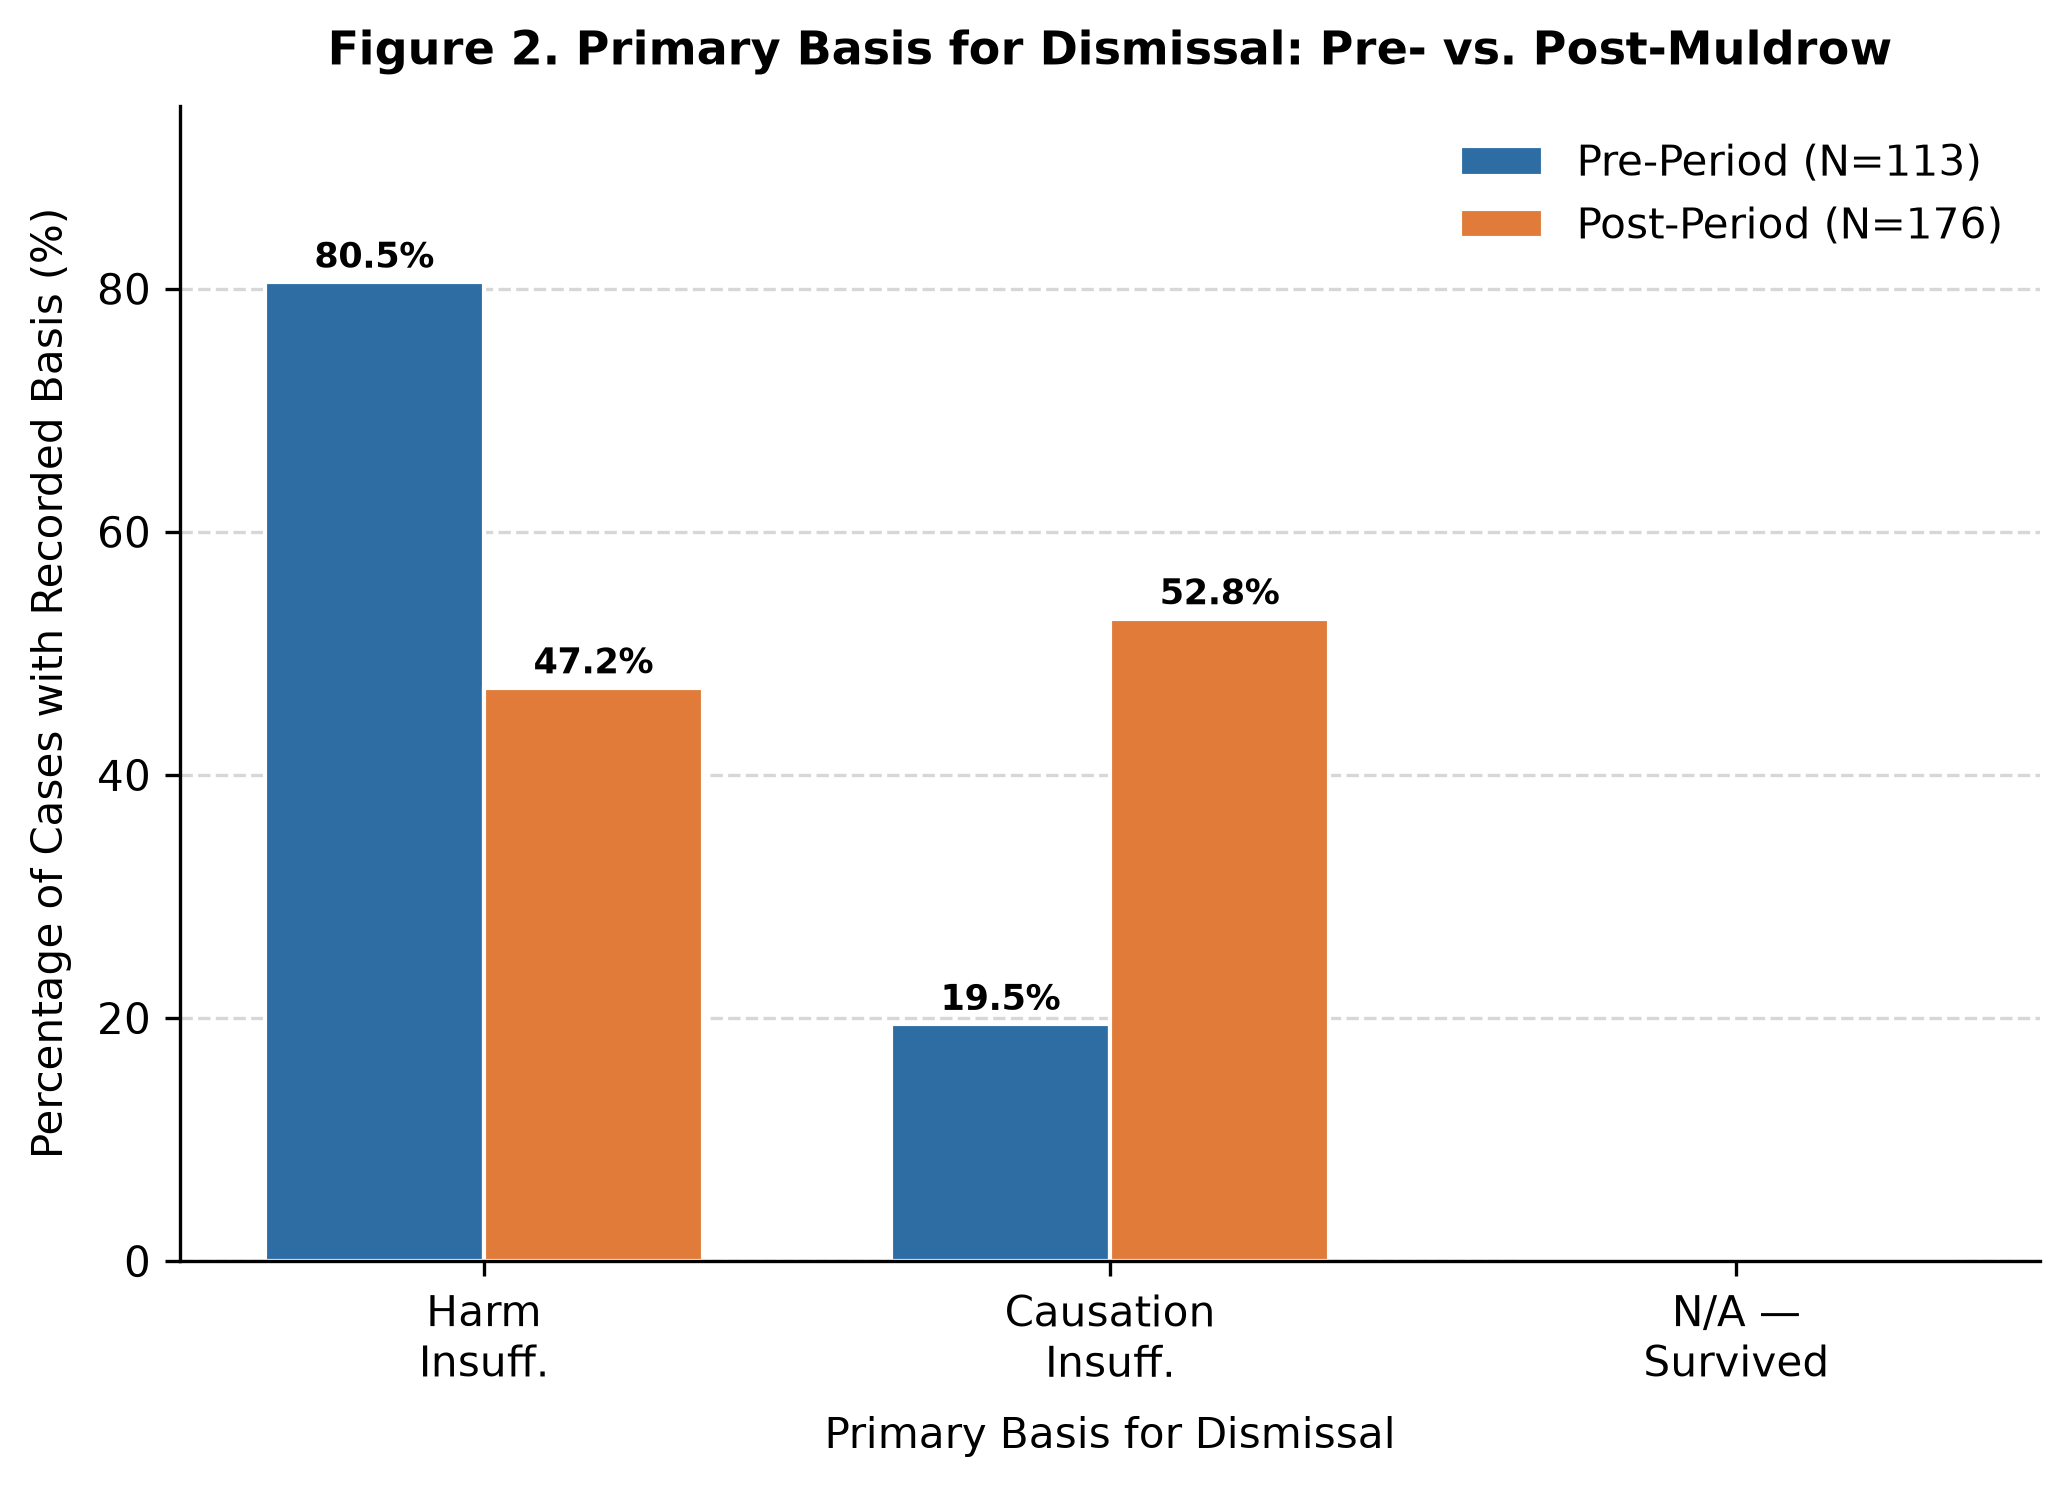
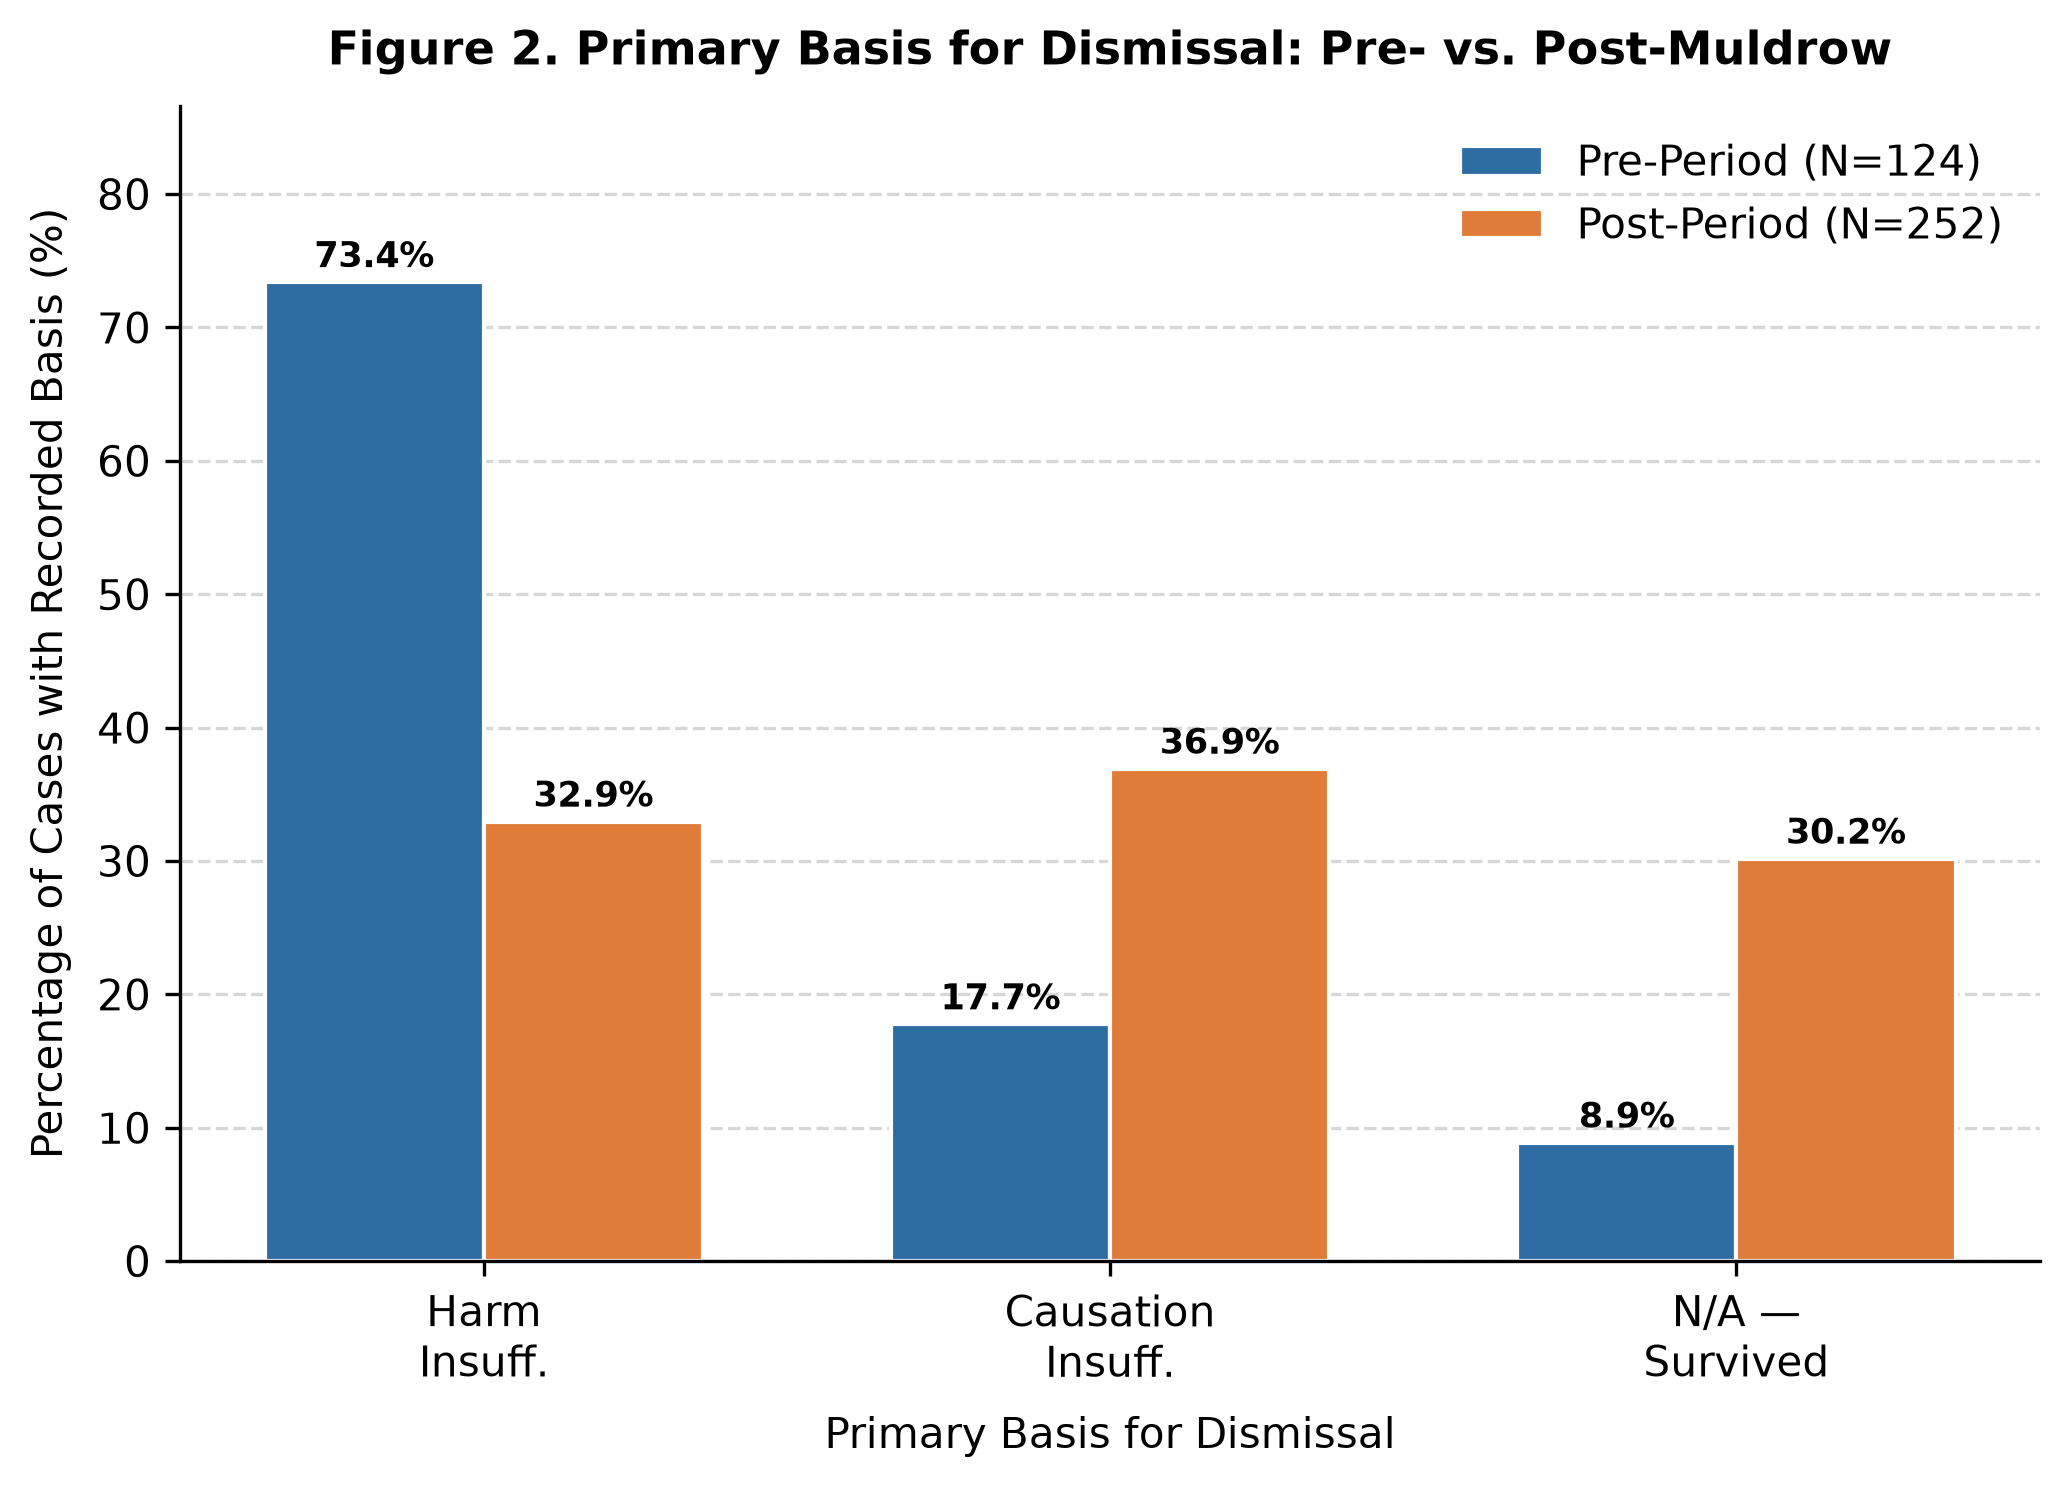
Fix hyphen/em-dash mismatch in dismissal basis mapping
87 cases coded as 'N/A - Plaintiff Survived' (plain hyphen) were falling
through the DISMISSAL_MAP and incorrectly classified as Other. Adding the
hyphen variant to the map moves them to 'N/A — Plaintiff Survived'.

After fix: Other category shrinks from 93 to 6 cases (Pre: 13→2, Post: 80→4).
N/A — Plaintiff Survived increases correspondingly. Binary logit unchanged
(OR_post=4.606, p<.001). All tables and figures regenerated.

diff --git a/muldrow_analysis.py b/muldrow_analysis.py
@@ -77,6 +77,7 @@ DISMISSAL_MAP = {
     "Harm Insufficient":                              "Harm Insufficient",
     "Causation / Discriminatory Intent Insufficient": "Causation Insufficient",
     "N/A — Plaintiff Survived":                       "N/A — Plaintiff Survived",
+    "N/A - Plaintiff Survived":                       "N/A — Plaintiff Survived",  # hyphen variant
     "Pleading Deficiency":                            "Pleading Deficiency",
     "Procedural / Forfeiture":                        "Other",
     "Multiple Bases":                                 "Other",
